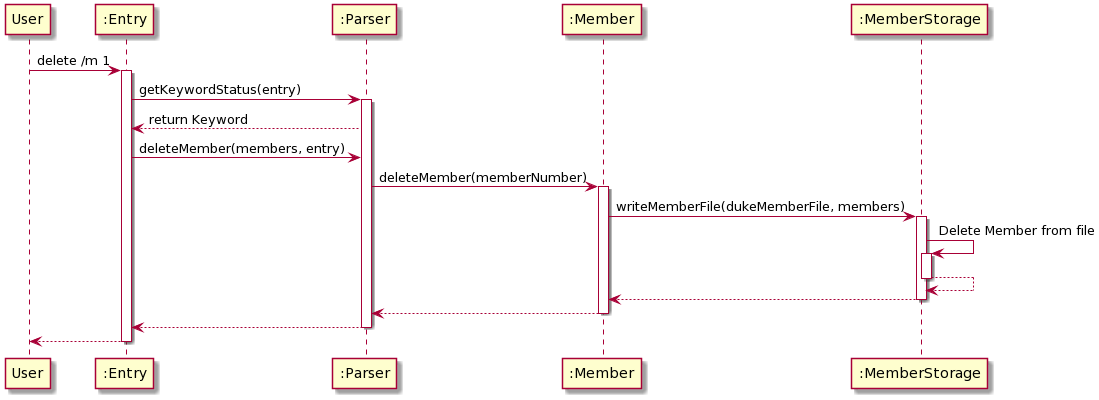
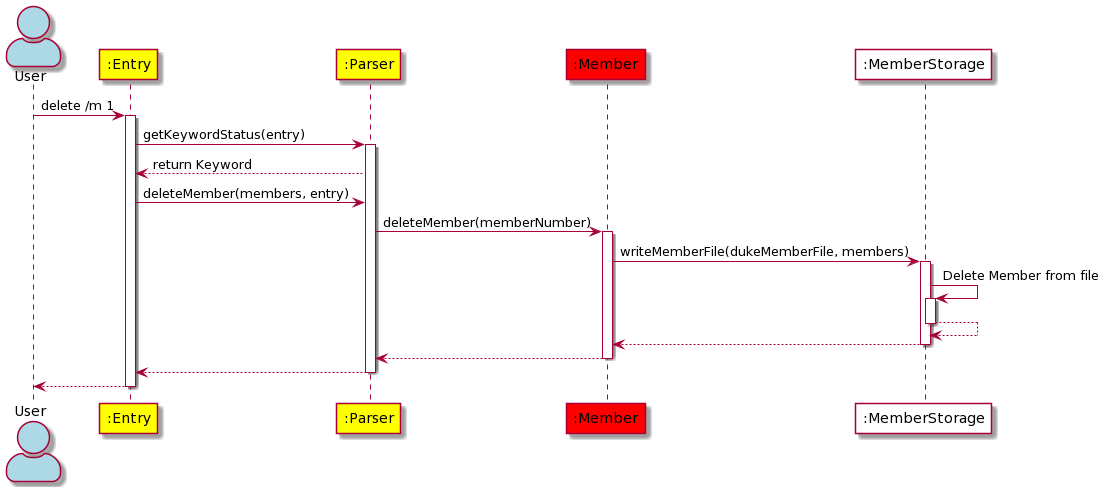
Add object diagrams for Entry, Parser, Command, UI and change seq diag to proper user

diff --git a/src/main/java/seedu/duke/Entry.java b/src/main/java/seedu/duke/Entry.java
@@ -98,7 +98,7 @@ public class Entry {
                 try {
                     trainingIndex = Parser.getIndex(entry);
                 } catch (NumberFormatException e) {
-                    System.out.println("Please key in a valid number!");
+                    Ui.printValidNumberNeeded();
                     break;
                 }
                 TrainingSchedule newTrainingDetail = Parser.getTrainingDescription(entry);
@@ -108,7 +108,7 @@ public class Entry {
                 try {
                     memberIndex = Parser.getIndex(entry);
                 } catch (NumberFormatException e) {
-                    System.out.println("Please key in a valid number!");
+                    Ui.printValidNumberNeeded();
                     break;
                 }
                 Member newMemberDetail = Parser.getMemberDetails(entry);

diff --git a/src/main/java/seedu/duke/Ui.java b/src/main/java/seedu/duke/Ui.java
@@ -145,6 +145,10 @@ public class Ui {
         printSeparator();
     }
 
+    public static void printValidNumberNeeded() {
+        System.out.println("Please key in a valid number!");
+    }
+
     public static void printList(MemberList members) {
         if (members.getMemberListSize() == 0) {
             System.out.println("Member list is empty!");

diff --git a/docs/DeveloperGuide.md b/docs/DeveloperGuide.md
@@ -67,11 +67,11 @@ The *sequence diagram* below shows how various components of the architecture in
 ### **Note:**
 * Examples below have their arguments removed for the sake of brevity
 * `waitForQuery()`: Blocks until a user input is received.
-* `getKeywordStatus()`: Given user input, return the `keyword`
-* `getMemberDetails()`: Given user input, return a `Member` object with all information from user input
-* `addMember()`: Calling a class that creates a new `Member` object and adds it to the MemberList `members`
-* `members.addMember()`: Adds a Member `member` to MemberList `members`
-* `writeMemberFile()`: Writes the content of MemberList `members` to the File `memberFiles`, which should be a `.csv` file in hard drive 
+* `getKeywordStatus()`: Given user input, return the `keyword`.
+* `getMemberDetails()`: Given user input, return a `Member` object with all information from user input.
+* `addMember()`: Calling a class that creates a new `Member` object and adds it to the MemberList `members`.
+* `members.addMember()`: Adds a Member `member` to MemberList `members`.
+* `writeMemberFile()`: Writes the content of MemberList `members` to the File `memberFiles`, which should be a `.csv` file in hard drive.
 
 The *sequence diagram* below shows how various components of the architecture interact with one another when a user inputs a **valid** command `"delete /m 1"`
 ![Architecture Sequence Diagram2](images/deleteMemberArchitecture.PNG)
@@ -86,20 +86,21 @@ The sections below give more details of each component.
 
 ### UI Component
 *Hint: You can click on the API links to be redirected to its source code!*
+![Ui Object Diagram](images/UiObjectDiagram.png)
 
 **API** : [Ui](https://github.com/AY2122S1-CS2113T-F12-4/tp/blob/master/src/main/java/seedu/duke/Ui.java)
 
 The `Ui` component handles the **output display** of **CCA Manager**. Whenever the user enters a command, the `Ui` class will print a message corresponding to the user input.
-
 **Current Functionalities**:
-* Display message on start-up
-* Help message when user inputs `--help`
-* Listing of `Members` in `MemberList`
-* Listing of `Training` in `TrainingList`
-* Listing of `Attendance` in `AttendanceList`
-* Displaying error messages on invalid command inputs
+* Display message on start-up.
+* Help message when user inputs `--help`.
+* Listing of `Members` in `MemberList`.
+* Listing of `Training` in `TrainingList`.
+* Listing of `Attendance` in `AttendanceList`.
+* Displaying error messages on invalid command inputs.
 
 ### Parser Component
+![Parser Object Diagram](images/ParserObjectDiagram.png)
 **API** : [Parser](https://github.com/AY2122S1-CS2113T-F12-4/tp/blob/master/src/main/java/seedu/duke/Parser.java)
 
 The `Parser` component handles the **input parsing** of **CCA Manager**. User input is parsed to produce a `keyword` and corresponding inputs, such as `index` , `name`, etc. are identified.
@@ -109,10 +110,11 @@ A `keyword` is an identifier used by **CCA Manager** to determine what operation
 **Current Functionalities**:
 * Retrieving `keyword` from user input.
 * Create a `TrainingSchedule` object from user input.
-* Create a `Member` object from user input
+* Create a `Member` object from user input.
 * Create a `Attendance` object from user input.
 
 ### Entry Component
+![Entry Object Diagram](images/EntryObjectDiagram.png)
 **API** : [Entry](https://github.com/AY2122S1-CS2113T-F12-4/tp/blob/master/src/main/java/seedu/duke/Entry.java)
 
 The `Entry` component performs a `command` based on the `keyword` given. If the user enters an invalid command, for example, the `Entry` component will direct the `Ui` component
@@ -120,29 +122,31 @@ to print an error message. It uses a simple `switch-case` statement to handle th
 
 
 ### Command Component
+![Command Object Diagram](images/CommandObjectDiagram.png)
 **API** : [Command](https://github.com/AY2122S1-CS2113T-F12-4/tp/tree/master/src/main/java/seedu/duke/command)
 
 The `Command` component directly interacts with the `Member`, `Training` or `Attendance` component based on the `keyword` given in order to perform a specific operation.
 
 **Current Functionalities**
-* Adding `Member` to `MemberList` in [Member Component](#member-component)
-* Adding `TrainingSchedule` to `TrainingList` in [Training Component](#training-component)
-* Adding `Attendance` to `AttendanceList` in [Attendance Component](#attendance-component)
-* Deleting `Member` from `MemberList` in Member Component
-* Deleting `TrainingSchedule` from `TrainingList` in Training Component
-* Deleting `Attendance` from `AttendanceList` in Attendance Component
+* Adding `Member` to `MemberList` in [Member Component](#member-component).
+* Adding `TrainingSchedule` to `TrainingList` in [Training Component](#training-component).
+* Adding `Attendance` to `AttendanceList` in [Attendance Component](#attendance-component).
+* Deleting `Member` from `MemberList` in Member Component.
+* Deleting `TrainingSchedule` from `TrainingList` in Training Component.
+* Deleting `Attendance` from `AttendanceList` in Attendance Component.
 * Editing a field in `Member`
 * Editing a field in `Training`
 * Finding a specific `Member` in `MemberList`
-  * `Search by index` and `Search by member name` is supported
+  * `Search by index` and `Search by member name` is supported.
 * Finding a specific `TrainingSchedule` in `TrainingList`
-  * `Search by index` and `Search by training name` is supported
+  * `Search by index` and `Search by training name` is supported.
 
 
 ### Member Component
+![Member Component Diagram](images/MemberComponent.png)
+
 **API** : [Member](https://github.com/AY2122S1-CS2113T-F12-4/tp/tree/master/src/main/java/seedu/duke/member)
 
-![Member Component Diagram](images/MemberComponent.png)
 
 The `Member` component,
 * instantiates an `MemberList` object comprising of 0 `Member` object.
@@ -151,11 +155,12 @@ The `Member` component,
 
 
 ### Training Component
+![Training Component](images/TrainingComponent.png)
+
 **API** : [Training](https://github.com/AY2122S1-CS2113T-F12-4/tp/tree/master/src/main/java/seedu/duke/training)
 
 The `Training` component consists of `TrainingList` and `TrainingSchedule`. Information regarding Trainings, such as `name`, `date/time` and `venue` are handled by the `Training` component.
 
-![Training Component](images/TrainingComponent.png)
 
 **Current Functionalities**
 
@@ -169,9 +174,10 @@ The `Training` component,
 
 
 ### Attendance component
+![Attendance Component Diagram](images/AttendanceComponent.png)
+
 **API** : [Attendance](https://github.com/AY2122S1-CS2113T-F12-4/tp/tree/master/src/main/java/seedu/duke/attendance)
 
-![Attendance Component Diagram](images/AttendanceComponent.png)
 
 The `Attendance` component,
 * instantiates an `Attendance` object comprising of 1 `Member` object and 1 `TrainingSchedule` object.
@@ -185,7 +191,7 @@ The `Storage` component consists of 3 sub-components, corresponding to `member s
 and `training schedule storage`
 
 The `member storage` component,
-* can save members' data in CSV format and read them back into the `MemberList` object 
+* can save members' data in CSV format and read them back into the `MemberList` object.
 * automatically adds to DukeMembers.csv whenever a new member is added to the `MemberList` object.
 * automatically edits to DukeMembers.csv whenever member details are edited in the `MemberList` object.
 * automatically deletes to DukeMembers.csv whenever a member is deleted from the `MemberList` object.
@@ -196,13 +202,13 @@ The `attendance storage` component,
 
 The `training schedule` component
 *can save trainings schedules and read them back into the `TrainingList` object. 
-*automatically deletes in the file whenever a training schedule is deleted from the `TrainingList` object
+*automatically deletes in the file whenever a training schedule is deleted from the `TrainingList` object.
 
 ## Restrictions
 # IMPORTANT!
 One restriction of the current implementation (`v2.0`) of **CCAManager** is that the user input cannot contain any commas.
 
-This is because data is saved in a `.csv` file, which uses commas as field delimiters. Hence, if user input were to contain commas, this may cause data to be imported inaccurately during the loading of existing files at start-up
+This is because data is saved in a `.csv` file, which uses commas as field delimiters. Hence, if user input were to contain commas, this may cause data to be imported inaccurately during the loading of existing files at start-up.
 
 ## Appendix: Requirements
 ### Product scope
@@ -228,10 +234,12 @@ User can update CCA information faster than using a GUI, and offers a centralize
 |v1.0|CCA Leader|Add training schedule|Record an upcoming training and its details for reference|
 |v1.0|CCA Leader|Edit training schedule|Update details of an upcoming training in case of any sudden changes (Venue,Date/Time,etc.)|
 |v1.0|CCA Leader|Delete training schedule|Remove any erroneous trainings (Cancelled training,etc.)|
-|v1.0|CCA Leader|Add attendance|Keep track of which members attended which training sessions|
-|v1.0|CCA Leader|Delete attendance|Remove any erroneous attendance (Listed member as present when he was not,etc.)|
 |v1.0|CCA Leader|Export data to .csv|Keep a backup of updated CCA information and make use of Excel formulas and macros to help with book-keeping|
 |v1.0|CCA Leader|Import data from .csv|Automatically read saved CCA information|
+|v2.0|CCA Leader|Add attendance|Keep track of which members attended which training sessions|
+|v2.0|CCA Leader|Delete attendance|Remove any erroneous attendance (Listed member as present when he was not,etc.)|
+|v2.0|CCA Leader|Find member|Find specific members if I need any of their details.|
+|v2.0|CCA Leader|Find training name|Filter out which Trainings I want to find out about.|
 
 
 ### Non-Functional Requirements
@@ -247,7 +255,7 @@ User can update CCA information faster than using a GUI, and offers a centralize
 1. Download the latest release from [here](https://github.com/AY2122S1-CS2113T-F12-4/tp/releases)
 
 ### Initial Launch
-1. Place `CCAManager.jar` in your folder of choice
+1. Place `CCAManager.jar` in your folder of choice.
 2. Run `cmd.exe` 
 3. Run CCA Manager by calling `java -jar CCAManager.jar` on `cmd.exe`
    1. Note that `cmd.exe` must be in the directory of `CCAManager.jar`
@@ -257,4 +265,4 @@ User can update CCA information faster than using a GUI, and offers a centralize
 2. Upon a successful command run, data will be saved to `DukeMembers.csv`
 
 ### Exit
-1. Call `bye` to exit CCA Manager
+1. Call `bye` to exit CCA Manager.

diff --git a/docs/team/ianwangeeen.md b/docs/team/ianwangeeen.md
@@ -1,0 +1,43 @@
+# Ian Wang Ee En - Project Portfolio Page
+
+## Overview
+
+**CCA Manager** is a simple and easy to use command-line based application aimed to assist you, a CCA manager, to easily add, delete or alter information about your
+CCA members. Moreover, **CCA Manager** also allows you to perform its functions on any training-related activities
+you may have in order to help you organise your CCA's timetable.
+
+### Summary of Contributions
+
+[Code Contributed](https://nus-cs2113-ay2122s1.github.io/tp-dashboard/?search=ianwangeeen&sort=groupTitle&sortWithin=title&since=2021-09-25&timeframe=commit&mergegroup=&groupSelect=groupByNone&breakdown=false&tabOpen=true&tabType=zoom&tabAuthor=ianwangeeen&tabRepo=AY2122S1-CS2113T-F12-4%2Ftp%5Bmaster%5D&authorshipIsMergeGroup=false&authorshipFileTypes=docs~functional-code~test-code&authorshipIsBinaryFileTypeChecked=false&zFR=false&zA=ianwangeeen&zR=AY2122S1-CS2113T-F12-4%2Ftp%5Bmaster%5D&zACS=157.44077603812116&zS=2021-09-25&zFS=&zU=2021-11-04&zMG=false&zFTF=commit&zFGS=groupByRepos)
+
+
+Features Implemented
+* Set up Parser Class
+  * Implemented Skeleton Code for overall Parser Class
+  * Implemented Keyword Enum class for the overall parsing of values
+  * Implemented various boolean `check` and `get` functions alongside other members
+  * Handled exceptions in Parser Class alongside other group members
+
+* Set up Entry Class
+  * Implemented addEntry function to parse data through parser class from entry class
+
+* Set up Ui Class
+  * Handled any printing to come from Ui class instead of using `System.out.println()` in the other functions
+
+* Feature Enhancements
+  * Handled filter checks for `EditMember` class; disallow numbers in Names, letters in phone numbers, disallowed invalid genders
+  * Handled version 2 of `deleteAttendance` class; changed delete attendance parameters to be more specific to training name
+  * Handled Exceptions for `AttendanceStorage` class
+  * Handled Exceptions for `deleteAttendance` class
+
+UG Contributions
+* Set up `Introduction` section of UserGuide.md
+* Set up `List` portions of UserGuide.md
+* Set up `Format` portions of UserGuide.md
+* Set up `Examples` portions of UserGuide.md
+
+DG Contributions
+* Set up Introduction for DeveloperGuide.md
+* Designed sequence diagram for `delete /m 1` command for DeveloperGuide.md
+* Designed object diagrams for `Ui`, `Parser`, `Command` and `Entry` Classes for DeveloperGuide.md
+* General editing of spacings and use of markdowns throughout DeveloperGuide.md
